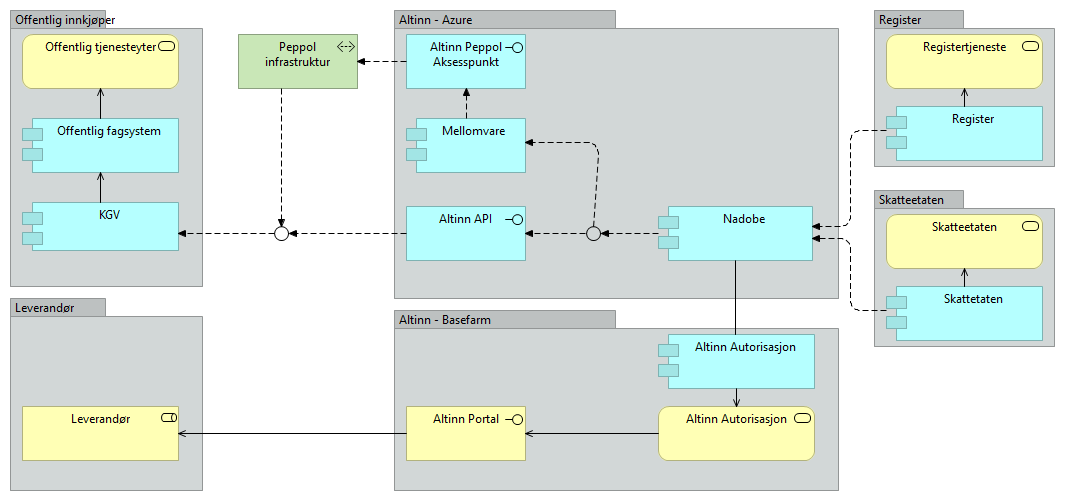
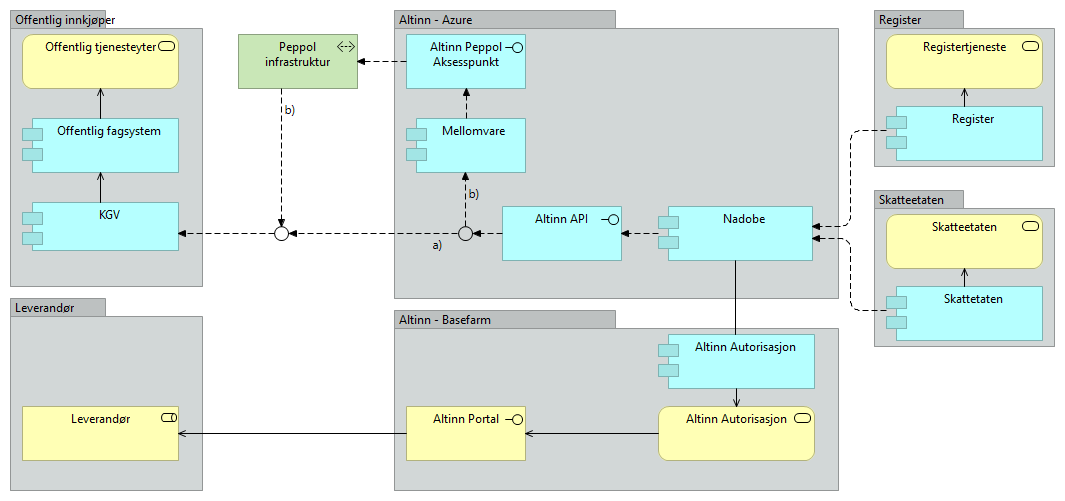
Flikking. Oppdatert HTML

Changed region(s): [[0.3718, 0.3892, 0.5887, 0.5389], [0.4958, 0.2695, 0.5268, 0.2994], [0.2479, 0.2096, 0.2789, 0.2395]]

diff --git a/docs/index.html b/docs/index.html
@@ -1057,7 +1057,7 @@
 														(Intermediary (Integrasjon) - Altinn Autorisasjon) 
 													</a></li>
 													<li class="tree-element"><a href="706502fc-f537-48f3-90d5-6f7943ff08e0/elements/5c718faa-37e3-452e-93f5-f4ab3c6a33d8.html" target="element">
-															<span class="i18n-elementtype-FlowRelationship"></span>
+															b)
 														(Peppol infrastruktur - Junction 3) 
 													</a></li>
 													<li class="tree-element"><a href="706502fc-f537-48f3-90d5-6f7943ff08e0/elements/931d8338-0c0a-4667-9cbf-d89654e7cf3b.html" target="element">
@@ -1065,8 +1065,8 @@
 														(Junction 3 - KGV) 
 													</a></li>
 													<li class="tree-element"><a href="706502fc-f537-48f3-90d5-6f7943ff08e0/elements/63164abe-b6d6-47d3-a8e4-2c3c5eca1b56.html" target="element">
-															<span class="i18n-elementtype-FlowRelationship"></span>
-														(Altinn API - Junction 3) 
+															a)
+														(Junction - Junction 3) 
 													</a></li>
 													<li class="tree-element"><a href="706502fc-f537-48f3-90d5-6f7943ff08e0/elements/5a793013-ed69-4abc-b01a-bd9ae3f1b3ca.html" target="element">
 															<span class="i18n-elementtype-ServingRelationship"></span>
@@ -1081,8 +1081,8 @@
 														(Intermediary (Integrasjon) - Junction 2) 
 													</a></li>
 													<li class="tree-element"><a href="706502fc-f537-48f3-90d5-6f7943ff08e0/elements/cab00a44-a318-498b-b977-bbbd007d0d5e.html" target="element">
-															<span class="i18n-elementtype-FlowRelationship"></span>
-														(Junction - Altinn API) 
+															b)
+														(Junction - Mellomvare ) 
 													</a></li>
 													<li class="tree-element"><a href="706502fc-f537-48f3-90d5-6f7943ff08e0/elements/7a95096a-18d0-49b1-a69f-5a17cdffb7d9.html" target="element">
 															<span class="i18n-elementtype-FlowRelationship"></span>
@@ -1136,13 +1136,13 @@
 															<span class="i18n-elementtype-AssociationRelationship"></span>
 														(Altinn Autorisasjon - Nadobe) 
 													</a></li>
-													<li class="tree-element"><a href="706502fc-f537-48f3-90d5-6f7943ff08e0/elements/33b82cd0-55be-4f61-964d-3cbdf5258512.html" target="element">
-															<span class="i18n-elementtype-FlowRelationship"></span>
-														(Junction - Mellomvare ) 
-													</a></li>
 													<li class="tree-element"><a href="706502fc-f537-48f3-90d5-6f7943ff08e0/elements/e3678dca-e171-43dd-9b32-9dc4e1f09497.html" target="element">
 															<span class="i18n-elementtype-FlowRelationship"></span>
-														(Nadobe - Junction) 
+														(Altinn API - Junction) 
+													</a></li>
+													<li class="tree-element"><a href="706502fc-f537-48f3-90d5-6f7943ff08e0/elements/888bd219-ed94-457f-b211-8333d6eb8d83.html" target="element">
+															<span class="i18n-elementtype-FlowRelationship"></span>
+														(Nadobe - Altinn API) 
 													</a></li>
 
 									</ul>

diff --git a/docs/706502fc-f537-48f3-90d5-6f7943ff08e0/views/fd5973a7-4dd0-41ca-a88c-1af21733cec1.html b/docs/706502fc-f537-48f3-90d5-6f7943ff08e0/views/fd5973a7-4dd0-41ca-a88c-1af21733cec1.html
@@ -28,10 +28,10 @@
 			<img class="diagram" src="../images/fd5973a7-4dd0-41ca-a88c-1af21733cec1.png" alt="Peppol aksesspunkt - NADOBE" usemap="#fd5973a7-4dd0-41ca-a88c-1af21733cec1map">
 			<map name="fd5973a7-4dd0-41ca-a88c-1af21733cec1map">
 								<area shape="rect" coords="406,34,526,89" href="../elements/f252b2bd-38b4-4e65-81c6-f6890bb2eb80.html"  target="element">
-								<area shape="rect" coords="406,206,526,261" href="../elements/76f6d8e3-ccf0-48ad-ba8f-221f825e2bb8.html"  target="element">
+								<area shape="rect" coords="502,206,622,261" href="../elements/76f6d8e3-ccf0-48ad-ba8f-221f825e2bb8.html"  target="element">
 								<area shape="rect" coords="406,118,526,173" href="../elements/32336ce3-2f62-4d85-86a7-f604c4eb9d28.html"  target="element">
 								<area shape="rect" coords="658,206,813,261" href="../elements/003226db-0a45-440e-9306-efc343e8cd7c.html"  target="element">
-								<area shape="rect" coords="586,226,601,241" href="../elements/526869af-afbe-416d-b8f8-3dff3fd2359a.html"  target="element">
+								<area shape="rect" coords="458,226,473,241" href="../elements/526869af-afbe-416d-b8f8-3dff3fd2359a.html"  target="element">
 
 								<area shape="rect" coords="22,34,179,89" href="../elements/9e72f645-2d7f-4af5-b395-20e1f8fc16c1.html"  target="element">
 								<area shape="rect" coords="22,118,179,173" href="../elements/414ab929-c35c-4d47-a039-1a9e603057b7.html"  target="element">

diff --git a/docs/706502fc-f537-48f3-90d5-6f7943ff08e0/elements/888bd219-ed94-457f-b211-8333d6eb8d83.html b/docs/706502fc-f537-48f3-90d5-6f7943ff08e0/elements/888bd219-ed94-457f-b211-8333d6eb8d83.html
@@ -2,7 +2,7 @@
 <html class="frame" lang="en">
 <head>
 	<meta http-equiv="Content-Type" content="text/html;charset=utf-8">
-	<title>b)</title>
+	<title></title>
 
 	<!-- JQUERY (use 1.x branch to be compatible with IE 6/7/8) -->
 	<script type="text/javascript" src="../../lib/jquery/js/jquery-1.11.2.min.js"></script>
@@ -20,7 +20,7 @@
 <body>
 	<div class="panel panel-default root-panel">
 		<div class="panel-heading root-panel-heading">
-			<b>b)</b>
+			<b></b>
 			(<span class="i18n-elementtype-FlowRelationship"></span>)
 			<a class="glyphicon glyphicon-info-sign" id="hint-FlowRelationship" target="hint"></a>
 		</div>
@@ -37,12 +37,12 @@
 					<div role="tabpanel" class="tab-pane active" id="documentation">
 							<br>
 							<b class="i18n-relation-source"></b>
-								<a href="../elements/578d4779-055d-4bac-a7d5-52b23f88da62.html" target="element">
-									Peppol infrastruktur
+								<a href="../elements/003226db-0a45-440e-9306-efc343e8cd7c.html" target="element">
+									Nadobe
 								</a> <br>
 							<b class="i18n-relation-target"></b>
-								<a href="../elements/bf7482dc-47a3-4ed6-9ec1-a60d513065f6.html" target="element">
-									Junction 3
+								<a href="../elements/76f6d8e3-ccf0-48ad-ba8f-221f825e2bb8.html" target="element">
+									Altinn API
 								</a> <br>
 							<br>
 						<textarea id="docsrc" style="display:none"></textarea>

diff --git a/docs/706502fc-f537-48f3-90d5-6f7943ff08e0/elements/63164abe-b6d6-47d3-a8e4-2c3c5eca1b56.html b/docs/706502fc-f537-48f3-90d5-6f7943ff08e0/elements/63164abe-b6d6-47d3-a8e4-2c3c5eca1b56.html
@@ -2,7 +2,7 @@
 <html class="frame" lang="en">
 <head>
 	<meta http-equiv="Content-Type" content="text/html;charset=utf-8">
-	<title></title>
+	<title>a)</title>
 
 	<!-- JQUERY (use 1.x branch to be compatible with IE 6/7/8) -->
 	<script type="text/javascript" src="../../lib/jquery/js/jquery-1.11.2.min.js"></script>
@@ -20,7 +20,7 @@
 <body>
 	<div class="panel panel-default root-panel">
 		<div class="panel-heading root-panel-heading">
-			<b></b>
+			<b>a)</b>
 			(<span class="i18n-elementtype-FlowRelationship"></span>)
 			<a class="glyphicon glyphicon-info-sign" id="hint-FlowRelationship" target="hint"></a>
 		</div>
@@ -37,8 +37,8 @@
 					<div role="tabpanel" class="tab-pane active" id="documentation">
 							<br>
 							<b class="i18n-relation-source"></b>
-								<a href="../elements/76f6d8e3-ccf0-48ad-ba8f-221f825e2bb8.html" target="element">
-									Altinn API
+								<a href="../elements/526869af-afbe-416d-b8f8-3dff3fd2359a.html" target="element">
+									Junction
 								</a> <br>
 							<b class="i18n-relation-target"></b>
 								<a href="../elements/bf7482dc-47a3-4ed6-9ec1-a60d513065f6.html" target="element">

diff --git a/docs/706502fc-f537-48f3-90d5-6f7943ff08e0/elements/cab00a44-a318-498b-b977-bbbd007d0d5e.html b/docs/706502fc-f537-48f3-90d5-6f7943ff08e0/elements/cab00a44-a318-498b-b977-bbbd007d0d5e.html
@@ -2,7 +2,7 @@
 <html class="frame" lang="en">
 <head>
 	<meta http-equiv="Content-Type" content="text/html;charset=utf-8">
-	<title></title>
+	<title>b)</title>
 
 	<!-- JQUERY (use 1.x branch to be compatible with IE 6/7/8) -->
 	<script type="text/javascript" src="../../lib/jquery/js/jquery-1.11.2.min.js"></script>
@@ -20,7 +20,7 @@
 <body>
 	<div class="panel panel-default root-panel">
 		<div class="panel-heading root-panel-heading">
-			<b></b>
+			<b>b)</b>
 			(<span class="i18n-elementtype-FlowRelationship"></span>)
 			<a class="glyphicon glyphicon-info-sign" id="hint-FlowRelationship" target="hint"></a>
 		</div>
@@ -41,8 +41,8 @@
 									Junction
 								</a> <br>
 							<b class="i18n-relation-target"></b>
-								<a href="../elements/76f6d8e3-ccf0-48ad-ba8f-221f825e2bb8.html" target="element">
-									Altinn API
+								<a href="../elements/32336ce3-2f62-4d85-86a7-f604c4eb9d28.html" target="element">
+									Mellomvare 
 								</a> <br>
 							<br>
 						<textarea id="docsrc" style="display:none"></textarea>

diff --git a/docs/706502fc-f537-48f3-90d5-6f7943ff08e0/elements/e3678dca-e171-43dd-9b32-9dc4e1f09497.html b/docs/706502fc-f537-48f3-90d5-6f7943ff08e0/elements/e3678dca-e171-43dd-9b32-9dc4e1f09497.html
@@ -37,8 +37,8 @@
 					<div role="tabpanel" class="tab-pane active" id="documentation">
 							<br>
 							<b class="i18n-relation-source"></b>
-								<a href="../elements/003226db-0a45-440e-9306-efc343e8cd7c.html" target="element">
-									Nadobe
+								<a href="../elements/76f6d8e3-ccf0-48ad-ba8f-221f825e2bb8.html" target="element">
+									Altinn API
 								</a> <br>
 							<b class="i18n-relation-target"></b>
 								<a href="../elements/526869af-afbe-416d-b8f8-3dff3fd2359a.html" target="element">
